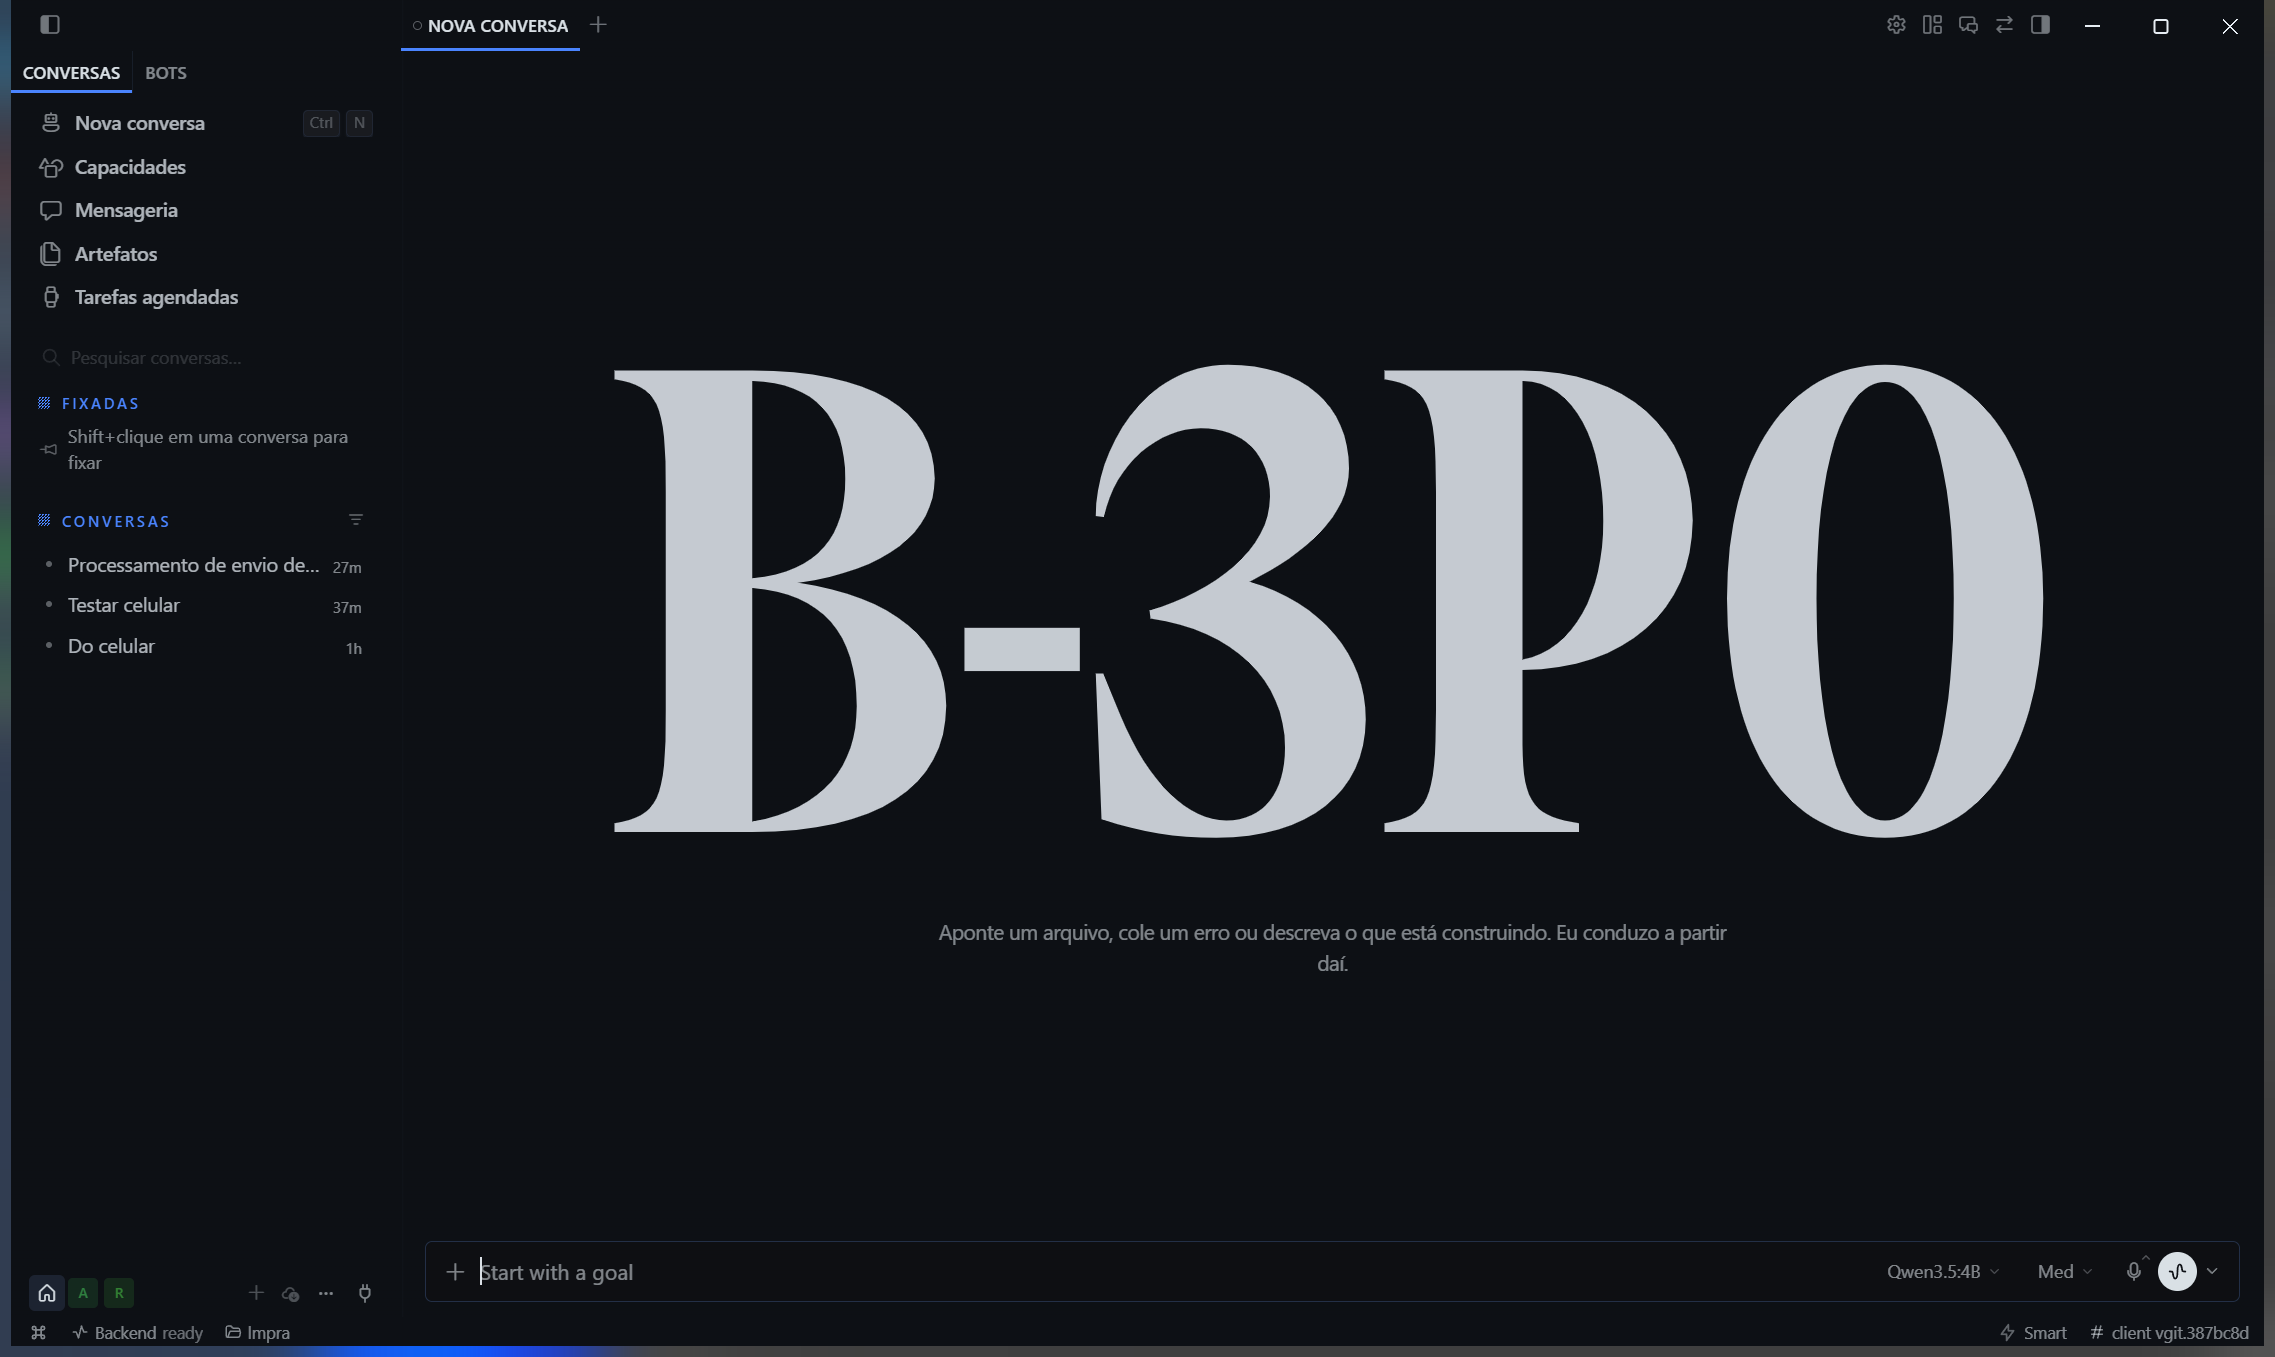
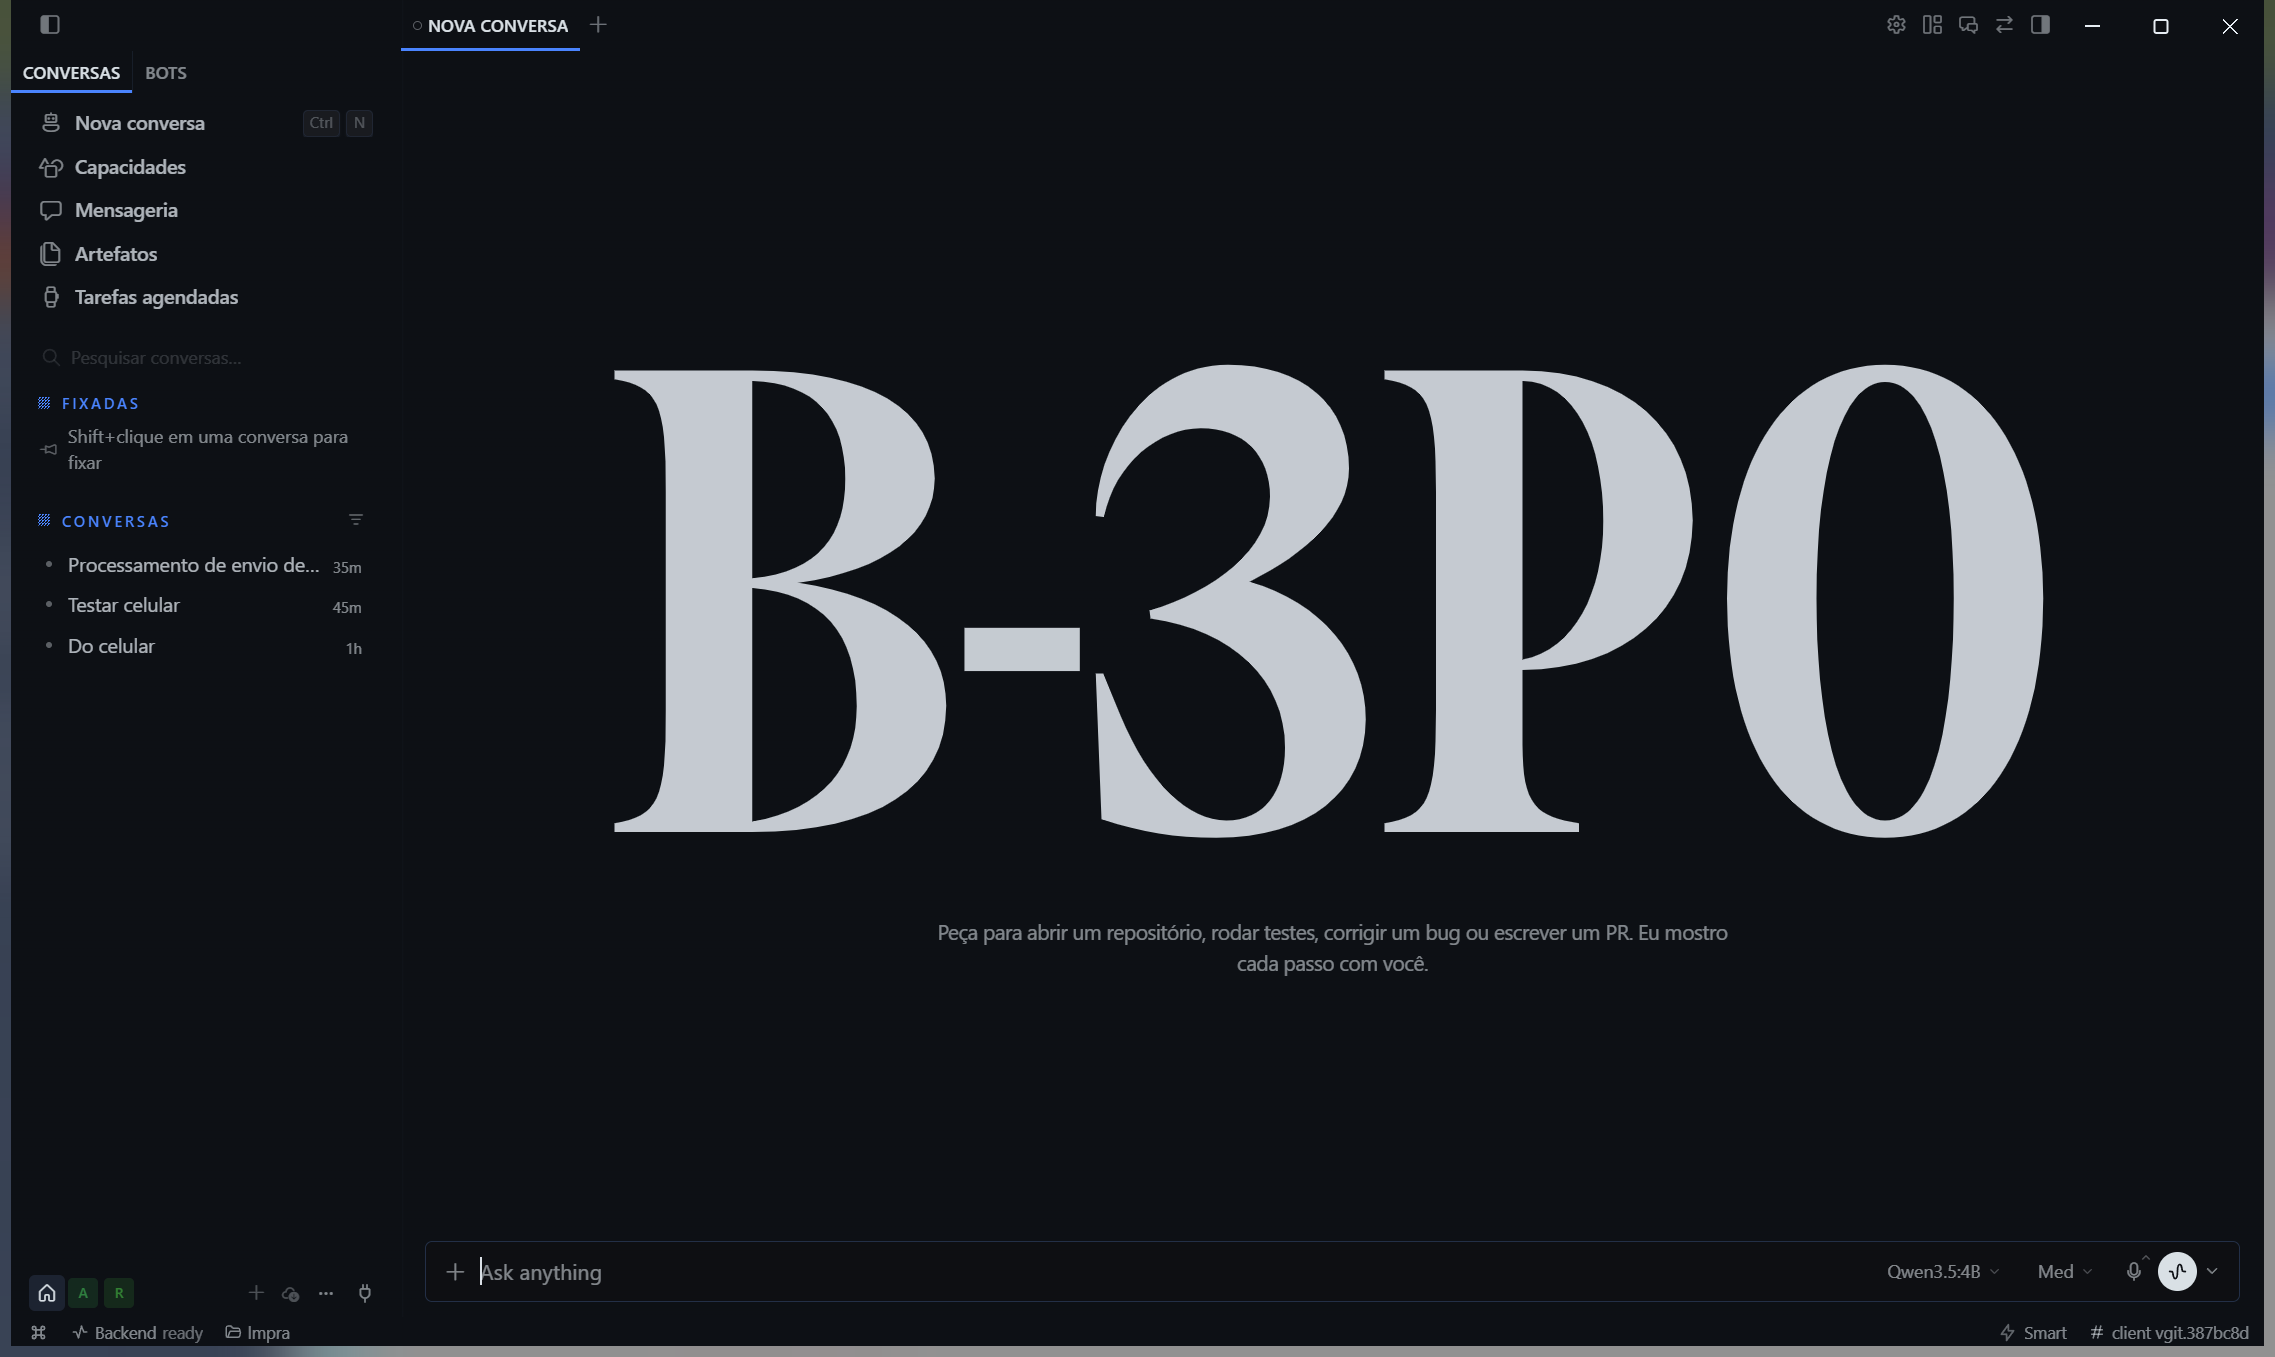
feat(desktop): config indisponivel deixa de abrir a UI em ingles + testes que pinam o locale
BURACO FECHADO: o catch do load de config fixava DEFAULT_LOCALE (en) em QUALQUER falha. Agora
consulta o perfil da maquina e aplica resolveInitialLocalePreferringOs; ingles fica como ultimo
recurso. Foi preciso tornar o callback async.

TESTES NOVOS em context.test.tsx (22 no arquivo; context + languages = 29 passando):
- config salvo em pt -> locale pt
- config en + maquina pt-BR -> locale pt
- config indisponivel (getConfig rejeita) + maquina pt-BR -> locale pt
tsc limpo; gate 14 ok.

PACOTE RECONSTRUIDO E ABERTO DE NOVO (client vgit.387bc8d no rodape). A tela continua com partes em
ingles: sidebar e paragrafo do heroi em pt, mas placeholder do composer ("Ask anything"), "Smart",
"Backend ready" e "IMPORT" em ingles.

DIAGNOSTICO CORRIGIDO: isso nao e um locale — e MAIS DE UM ESCOPO de i18n na mesma janela. O provider
do app (main.tsx -> ProfileI18nProvider -> I18nProvider scopeKey) resolveu pt; um segundo escopo (o que
desenha composer e statusbar) ficou no default en e nao passa pela correcao.

PROXIMO PASSO MEDIDO: listar cada mount de I18nProvider com seu scopeKey, achar o escopo que desenha
o composer/statusbar, faze-lo herdar o locale do pai (ou passar initialLocale) e provar com render test
que o placeholder sai em pt.

Registro: na rodada 69 eu disse que o app "nao recebe o config"; a rodada 70 mostra que a logica do
provider esta correta nos tres casos. Corrigido no relatorio.

diff --git a/apps/desktop/src/i18n/context.test.tsx b/apps/desktop/src/i18n/context.test.tsx
@@ -44,6 +44,63 @@ describe('I18nProvider', () => {
     expect(screen.getByTestId('label').textContent).toBe('Language')
   })
 
+  it('usa o display.language salvo (pt) em vez do default en', async () => {
+    const configClient = {
+      getConfig: async () => ({ display: { language: 'pt' } }),
+      saveConfig: async () => ({ ok: true })
+    }
+
+    render(
+      <I18nProvider configClient={configClient}>
+        <LanguageProbe />
+      </I18nProvider>
+    )
+
+    await waitFor(() => expect(screen.getByTestId('locale').textContent).toBe('pt'))
+  })
+
+  it('sem escolha salva, segue o idioma da maquina (pt-BR) em vez de en', async () => {
+    const previous = window.hermesDesktop
+    // @ts-expect-error teste: bridge minima
+    window.hermesDesktop = { getMachineProfile: async () => ({ locale: 'pt-BR' }) }
+
+    const configClient = {
+      getConfig: async () => ({ display: { language: 'en' } }),
+      saveConfig: async () => ({ ok: true })
+    }
+
+    render(
+      <I18nProvider configClient={configClient}>
+        <LanguageProbe />
+      </I18nProvider>
+    )
+
+    await waitFor(() => expect(screen.getByTestId('locale').textContent).toBe('pt'))
+    window.hermesDesktop = previous
+  })
+
+  it('config indisponivel nao abre a UI em ingles numa maquina pt-BR', async () => {
+    const previous = window.hermesDesktop
+    // @ts-expect-error teste: bridge minima
+    window.hermesDesktop = { getMachineProfile: async () => ({ locale: 'pt-BR' }) }
+
+    const configClient = {
+      getConfig: async () => {
+        throw new Error('config fora do ar')
+      },
+      saveConfig: async () => ({ ok: true })
+    }
+
+    render(
+      <I18nProvider configClient={configClient}>
+        <LanguageProbe />
+      </I18nProvider>
+    )
+
+    await waitFor(() => expect(screen.getByTestId('locale').textContent).toBe('pt'))
+    window.hermesDesktop = previous
+  })
+
   it('normalizes an initial locale alias and switches translations', async () => {
     render(
       <I18nProvider configClient={null} initialLocale="zh-CN">

diff --git a/apps/desktop/src/i18n/context.tsx b/apps/desktop/src/i18n/context.tsx
@@ -207,13 +207,23 @@ export function I18nProvider({
             )
           }
         })
-        .catch(error => {
+        .catch(async error => {
           if (cancelled || userLocaleRef.current) {
             return
           }
 
           setConfigLoadError(toError(error))
-          setLocaleState(DEFAULT_LOCALE)
+
+          // B-3PO: um config que não carrega não é motivo para abrir a UI em inglês numa máquina
+          // pt-BR. Sem escolha salva, o idioma da máquina é a resposta honesta; o inglês fica como
+          // último recurso (antes, este caminho fixava `en` em qualquer falha).
+          const fallbackProfile = await window.hermesDesktop?.getMachineProfile?.().catch(() => null)
+
+          if (!cancelled && !userLocaleRef.current) {
+            setLocaleState(
+              resolveInitialLocalePreferringOs(requestedRef.current, fallbackProfile?.locale)
+            )
+          }
 
           if (retryCount < MAX_LOCALE_RETRIES) {
             retryCount += 1

diff --git a/docs/b3po/DESKTOP-RELEASE-REPORT.md b/docs/b3po/DESKTOP-RELEASE-REPORT.md
@@ -291,3 +291,46 @@ da correção no escuro.
 O `run-electron-builder.mjs` aponta o cache para `path.join(source, '.cache/desktop-inputs')`, dentro do
 checkout; os `*.tar.gz` do builder derrubam o gate `profile-archives`. Removi 400 MB desse cache e o gate
 voltou a **14 checks, ok**. Também apaguei `release/win-unpacked.bak` (431 MB).
+
+## Rodada 70 — provas de que a lógica de idioma está certa, e a suspeita que sobrou
+
+### Testes que passaram a pinar o comportamento (context.test.tsx)
+
+| Teste | Entrada | Espera | Resultado |
+|---|---|---|---|
+| config salvo em pt | `getConfig → {display:{language:'pt'}}` | locale `pt` | ✅ |
+| config `en` + máquina `pt-BR` | `getConfig → 'en'`, `getMachineProfile → 'pt-BR'` | locale `pt` | ✅ |
+| config indisponível + máquina `pt-BR` | `getConfig` **rejeita** | locale `pt` | ✅ |
+
+O terceiro caso era um buraco real: o `catch` do load fixava `DEFAULT_LOCALE` (`en`) em **qualquer**
+falha de config. Agora ele consulta o perfil da máquina e usa `resolveInitialLocalePreferringOs`; o
+inglês ficou como último recurso. `context.test.tsx` está com **22 testes**; `context` + `languages`
+= 29 passando; `tsc` limpo; gate 14 ok.
+
+### E o app empacotado? Ainda inglês — mas agora sei onde NÃO é
+
+Pacote reconstruído e aberto de novo (`client vgit.387bc8d` no rodapé). Resultado na tela:
+
+- **em português**: sidebar (CONVERSAS, BOTS, Nova conversa, Capacidades, Mensageria, Artefatos,
+  Tarefas agendadas, Pesquisar conversas…, FIXADAS) e o parágrafo do herói;
+- **em inglês**: o placeholder do composer (“Ask anything”), o selo “Smart”, “Backend ready”, “IMPORT”.
+
+Isso **não é um locale**: é **mais de um escopo de i18n** na mesma janela. O provider do app
+(`main.tsx` → `ProfileI18nProvider` → `I18nProvider scopeKey=…`) resolveu pt; um segundo escopo — o que
+desenha composer e statusbar — ficou no default `en`. Minha correção atua no primeiro; o segundo não
+passa por ela.
+
+### Próximo passo (medido, não adivinhado)
+
+1. `grep -rn "I18nProvider" src/main.tsx src/app` e listar **cada** mount com seu `scopeKey`;
+2. achar o escopo que desenha `app/chat/composer` e `statusbar`;
+3. fazer esse escopo herdar o locale do escopo pai (ou passar `initialLocale` explícito) e provar com um
+   teste de render que o placeholder sai em pt.
+
+Ferramenta boa para isso: render test com `ProfileI18nProvider` + composer, comparando o placeholder.
+
+### Correção de registro
+
+Na rodada 69 eu disse que o problema era “o app não recebe o config”. A rodada 70 mostra que a lógica do
+provider está correta nos três casos; o que falta é o **segundo escopo**. Registro para não repetir o
+diagnóstico errado.

diff --git a/docs/b3po/AUTONOMOUS-EXECUTION-STATE.md b/docs/b3po/AUTONOMOUS-EXECUTION-STATE.md
@@ -7,7 +7,7 @@ Estado corrente do trabalho autônomo. Atualizado a cada rodada; é o que permit
 | Campo | Valor |
 |---|---|
 | Branch de produto | `b3po-brand` (a `main` segue espelho limpo do upstream) |
-| Commits DZ23 | 117 |
+| Commits DZ23 | 118 |
 | Gate do repositório | `python scripts/check` → 14 checks, ok |
 | Testes | desktop: bots 960 · i18n 104 · store/sdk 2307 · CRM 66 · mobile 101 (+5 live pulados) |
 | Status do produto | **NOT_READY** (há critérios abertos, listados abaixo) |
